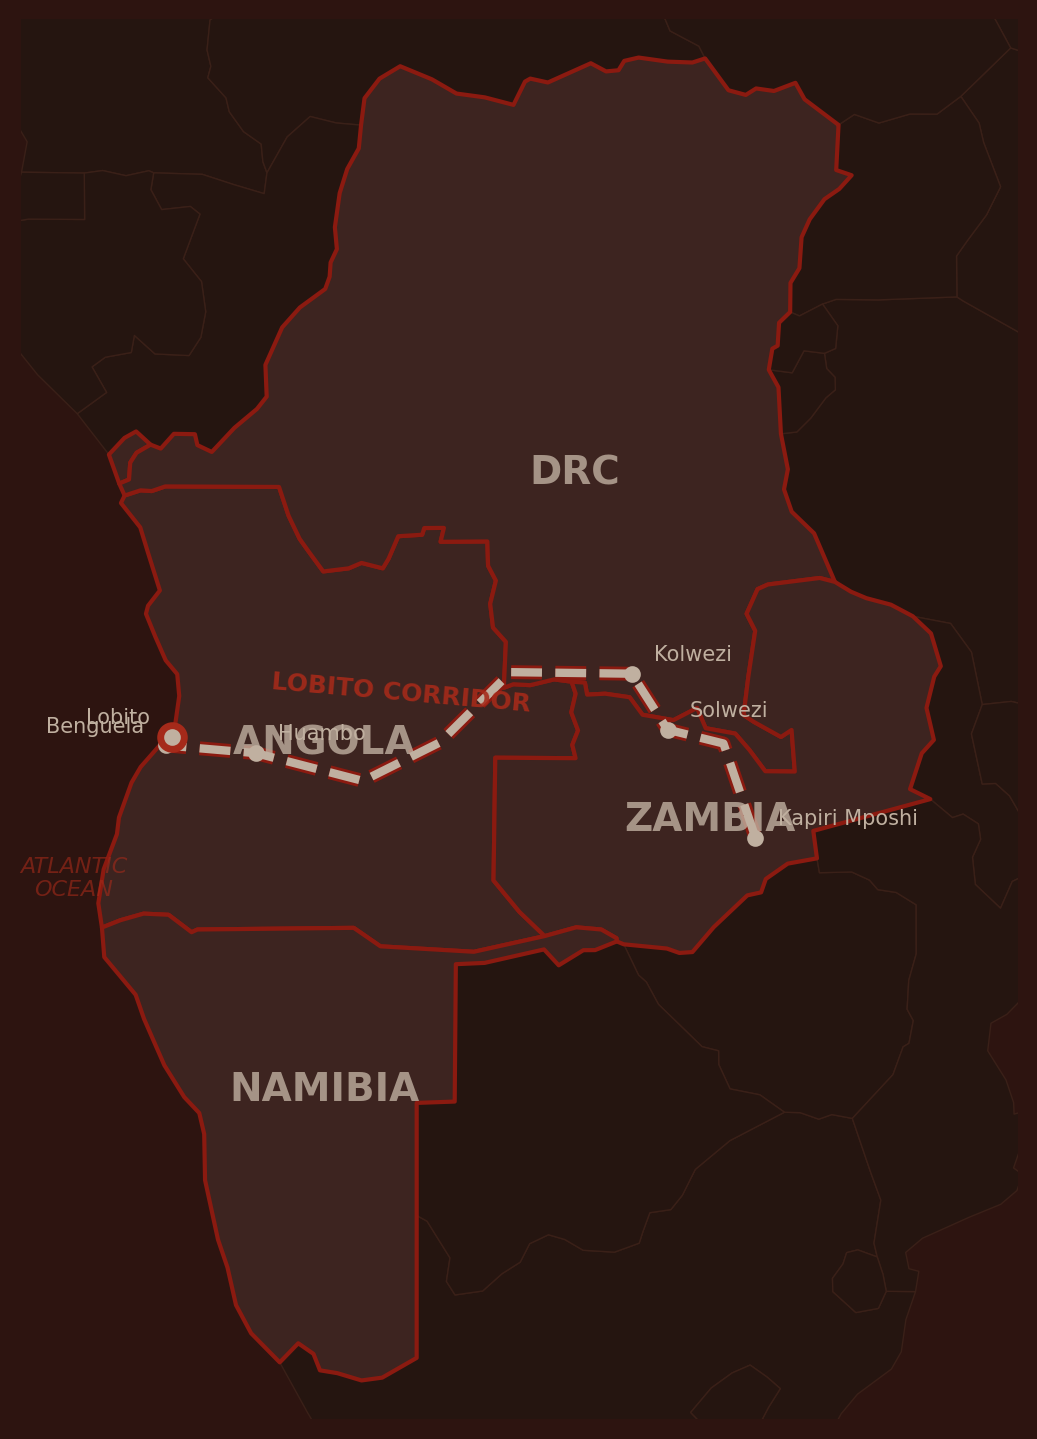
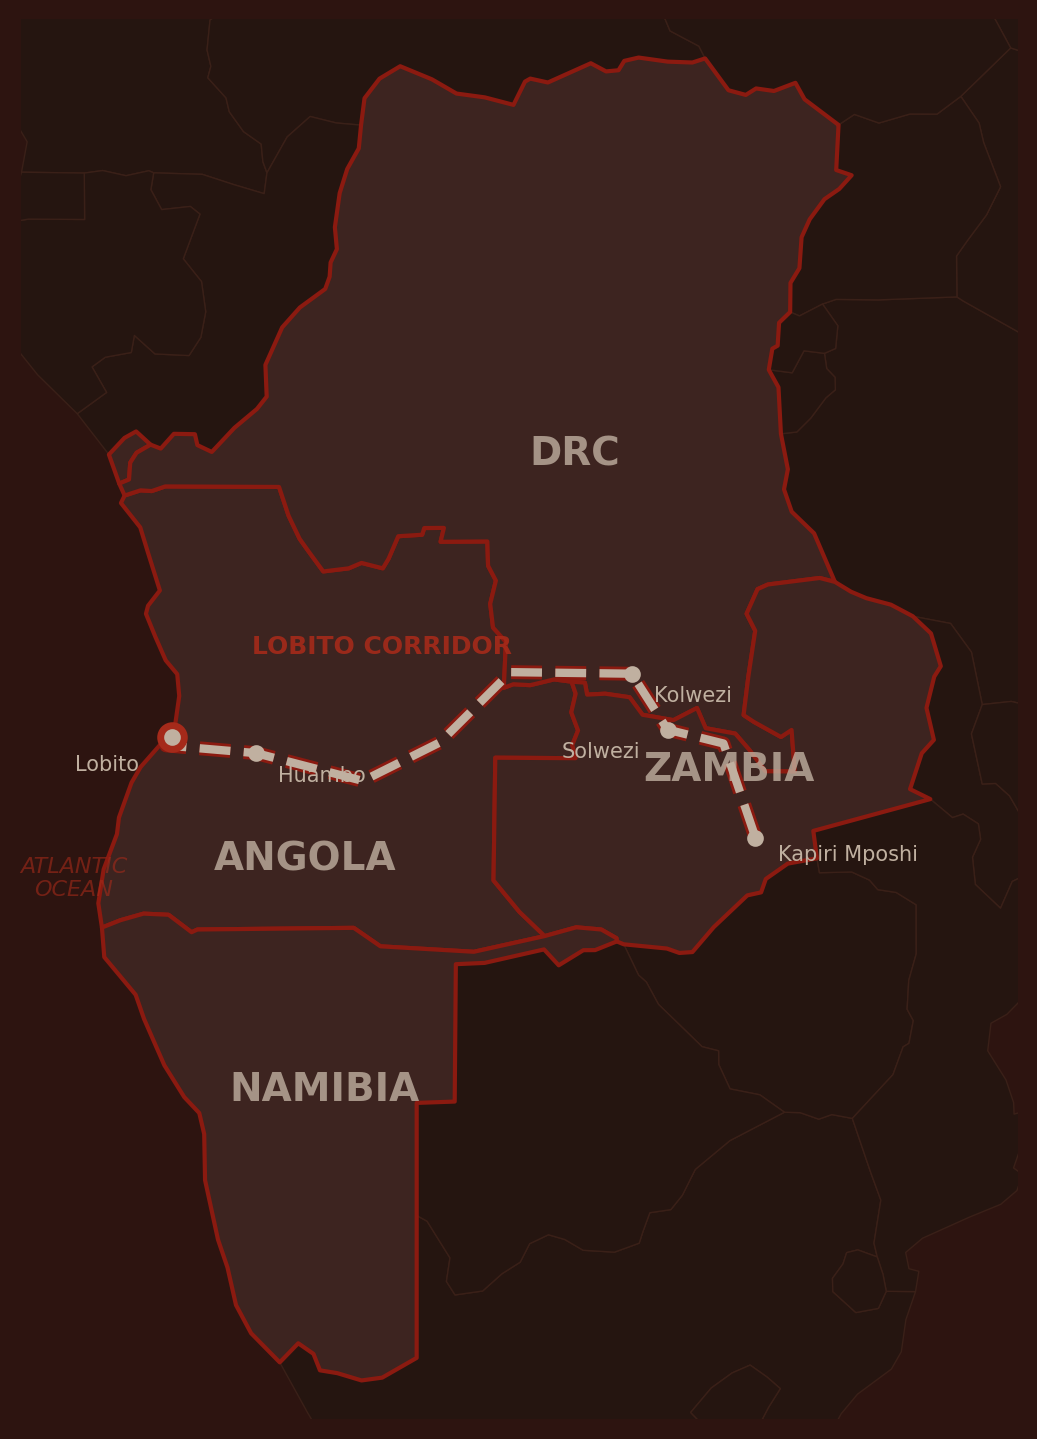
Fix overlapping text labels on corridor map

diff --git a/generate_map.py b/generate_map.py
@@ -67,19 +67,19 @@ corridor_coords = [
     (28.68, -14.97),   # Kapiri Mposhi
 ]
 
+# (lon, lat, label, ha, x_offset, y_offset)
 cities = [
-    (13.55, -12.35, 'Lobito', 'right'),
-    (13.40, -12.58, 'Benguela', 'right'),
-    (15.73, -12.78, 'Huambo', 'left'),
-    (25.47, -10.72, 'Kolwezi', 'left'),
-    (26.40, -12.17, 'Solwezi', 'left'),
-    (28.68, -14.97, 'Kapiri Mposhi', 'left'),
+    (13.55, -12.35, 'Lobito', 'right', -12, -12),
+    (15.73, -12.78, 'Huambo', 'left', 8, -10),
+    (25.47, -10.72, 'Kolwezi', 'left', 8, -10),
+    (26.40, -12.17, 'Solwezi', 'right', -10, -10),
+    (28.68, -14.97, 'Kapiri Mposhi', 'left', 8, -8),
 ]
 
 country_labels = {
-    'Angola': (17.5, -12.5),
-    'Dem. Rep. Congo': (24.0, -5.5),
-    'Zambia': (27.5, -14.5),
+    'Angola': (17.0, -15.5),
+    'Dem. Rep. Congo': (24.0, -5.0),
+    'Zambia': (28.0, -13.2),
     'Namibia': (17.5, -21.5),
 }
 
@@ -115,9 +115,9 @@ gpd.GeoDataFrame(geometry=[corridor_line]).plot(
     path_effects=[pe.Stroke(linewidth=5, foreground=ACCENT), pe.Normal()])
 
 # City dots and labels
-for lon, lat, name, ha in cities:
+for lon, lat, name, ha, xoff, yoff in cities:
     ax.plot(lon, lat, 'o', color=TEXT_MUTED, markersize=5, zorder=5)
-    ax.annotate(name, (lon, lat), xytext=(8 if ha == 'left' else -8, 5),
+    ax.annotate(name, (lon, lat), xytext=(xoff, yoff),
                 textcoords='offset points', fontsize=7.5, color=TEXT_MUTED,
                 ha=ha, fontfamily='sans-serif')
 
@@ -130,8 +130,8 @@ ax.text(11.0, -16.0, 'ATLANTIC\nOCEAN', fontsize=8, color=ACCENT_LIGHT,
         ha='center', va='center', fontstyle='italic', alpha=0.6, fontfamily='sans-serif')
 
 # Corridor label
-ax.text(19.5, -11.2, 'LOBITO CORRIDOR', fontsize=9, fontweight='bold',
-        color=ACCENT_LIGHT, ha='center', va='center', rotation=-5,
+ax.text(19.0, -10.0, 'LOBITO CORRIDOR', fontsize=9, fontweight='bold',
+        color=ACCENT_LIGHT, ha='center', va='center', rotation=0,
         fontfamily='sans-serif', alpha=0.9)
 
 # Bounds
